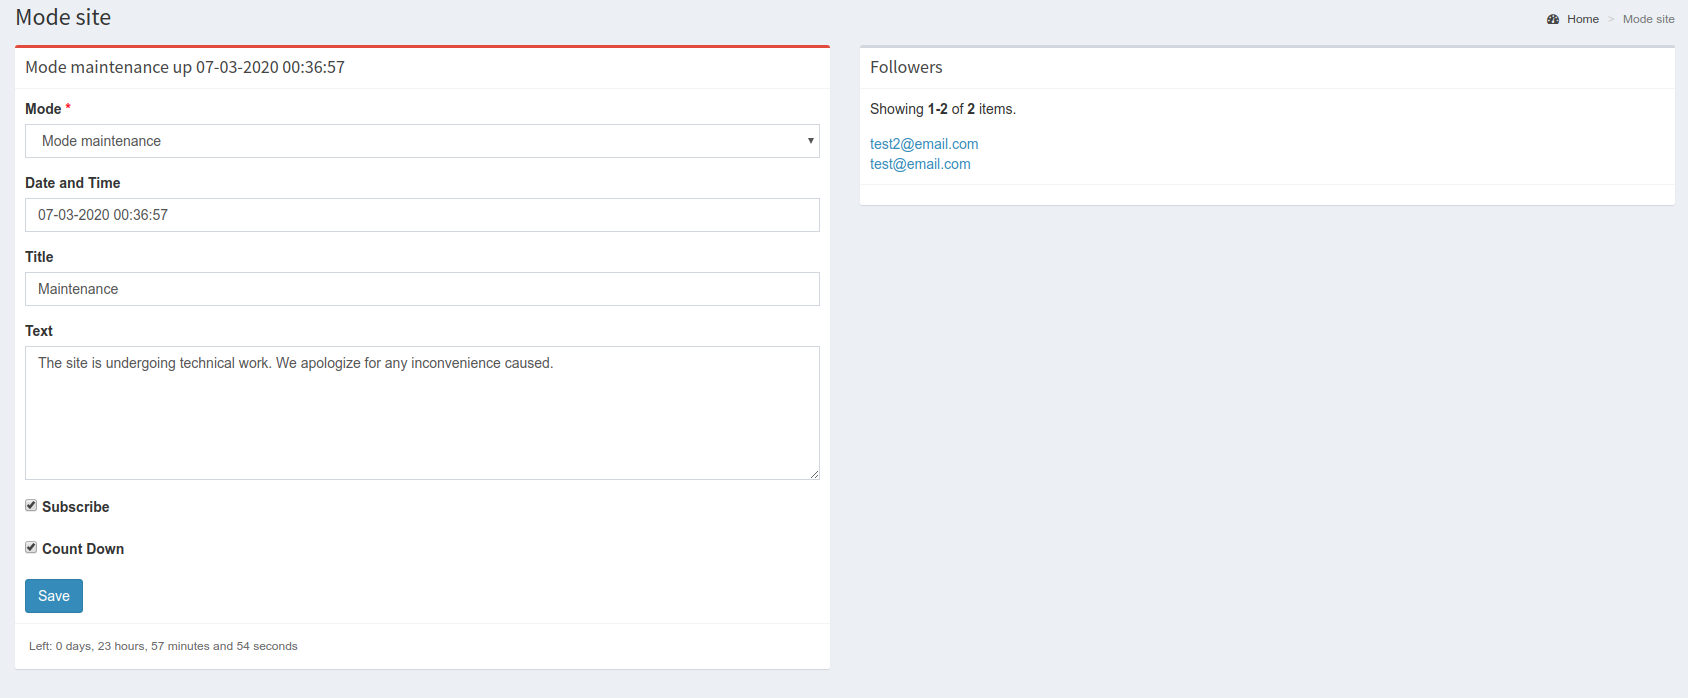
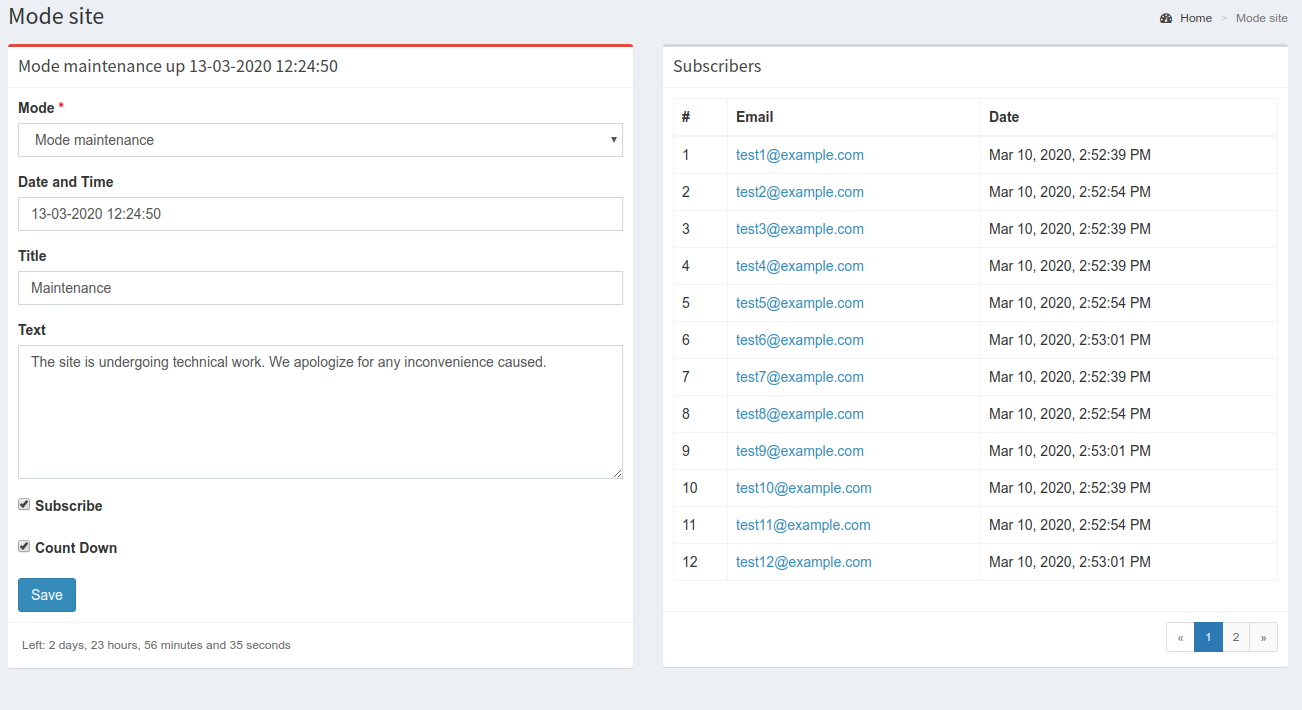
hidden alert

diff --git a/src/widgets/maintenance/assets/src/js/script.js b/src/widgets/maintenance/assets/src/js/script.js
@@ -21,7 +21,7 @@ $(function () {
         });
 
         setTimeout(function () {
-            $('.notify').fadeOut(2000, 'swing');
+            $('.alert').fadeOut(2000, 'swing');
         }, 3000);
     }
 

diff --git a/src/views/backend/maintenance/index.php b/src/views/backend/maintenance/index.php
@@ -1,9 +1,9 @@
 <?php
 
-use yii\grid\SerialColumn;
 use yii\web\View;
 use yii\helpers\Html;
 use yii\grid\GridView;
+use yii\grid\SerialColumn;
 use yii\widgets\LinkPager;
 use dominus77\maintenance\models\FileStateForm;
 use dominus77\maintenance\models\SubscribeForm;
@@ -51,11 +51,7 @@ $this->params['breadcrumbs'][] = $this->title;
                             ]
                         ]) ?>
                     </div>
-                    <div class="pull-right">
-                        <?php if (($message = Yii::$app->session->getFlash($model::MAINTENANCE_UPDATE_KEY)) && $message !== null) { ?>
-                            <p class="notify" style="color: green"><?= $message ?></p>
-                        <?php } ?>
-                    </div>
+                    <div class="pull-right"></div>
                 </div>
             </div>
         </div>
@@ -89,11 +85,7 @@ $this->params['breadcrumbs'][] = $this->title;
                     ]) ?>
                 </div>
                 <div class="box-footer">
-                    <div class="pull-left">
-                        <?php if (($message = Yii::$app->session->getFlash($model::MAINTENANCE_NOTIFY_SENDER_KEY)) && $message !== null) { ?>
-                            <p class="notify" style="color: green"><?= $message ?>.</p>
-                        <?php } ?>
-                    </div>
+                    <div class="pull-left"></div>
                     <div class="pull-right">
                         <?= LinkPager::widget([
                             'pagination' => $dataProvider->pagination,

diff --git a/src/actions/backend/IndexAction.php b/src/actions/backend/IndexAction.php
@@ -2,11 +2,11 @@
 
 namespace dominus77\maintenance\actions\backend;
 
-use dominus77\maintenance\models\SubscribeForm;
 use Yii;
 use yii\base\Action;
 use yii\web\Response;
 use dominus77\maintenance\models\FileStateForm;
+use dominus77\maintenance\models\SubscribeForm;
 use dominus77\maintenance\BackendMaintenance;
 use yii\web\Session;
 
@@ -69,11 +69,11 @@ class IndexAction extends Action
     {
         /** @var Session $session */
         $session = Yii::$app->session;
-        if (is_bool($result) && $result === true) {
-            $session->setFlash(FileStateForm::MAINTENANCE_UPDATE_KEY, $message);
+        if (is_bool($result) && $result === true && $message) {
+            $session->setFlash('success', $message);
         }
         if (is_numeric($result)) {
-            $session->setFlash(FileStateForm::MAINTENANCE_NOTIFY_SENDER_KEY, BackendMaintenance::t('app',
+            $session->setFlash('success', BackendMaintenance::t('app',
                 '{n, plural, =0{no followers} =1{one message sent} other{# messages sent}}',
                 ['n' => $result])
             );

diff --git a/src/models/SubscribeForm.php b/src/models/SubscribeForm.php
@@ -16,7 +16,7 @@ use dominus77\maintenance\BackendMaintenance;
  * @property string $path
  * @property array $followers
  * @property int $pageSize
- * @property \yii\data\ArrayDataProvider $dataProvider
+ * @property ArrayDataProvider $dataProvider
  */
 class SubscribeForm extends BaseForm implements SubscribeFormInterface
 {

diff --git a/src/models/FileStateForm.php b/src/models/FileStateForm.php
@@ -26,9 +26,6 @@ use DateTime;
  */
 class FileStateForm extends BaseForm implements StateFormInterface
 {
-    const MAINTENANCE_NOTIFY_SENDER_KEY = 'notifySender';
-    const MAINTENANCE_UPDATE_KEY = 'maintenanceUpdate';
-
     /**
      * Select mode
      * @var int|string

diff --git a/src/states/FileState.php b/src/states/FileState.php
@@ -70,7 +70,7 @@ class FileState extends BaseObject implements StateInterface
      * Page size to backend
      * @var int
      */
-    public $pageSize = 16;
+    public $pageSize = 12;
 
     /**
      * Initialization
